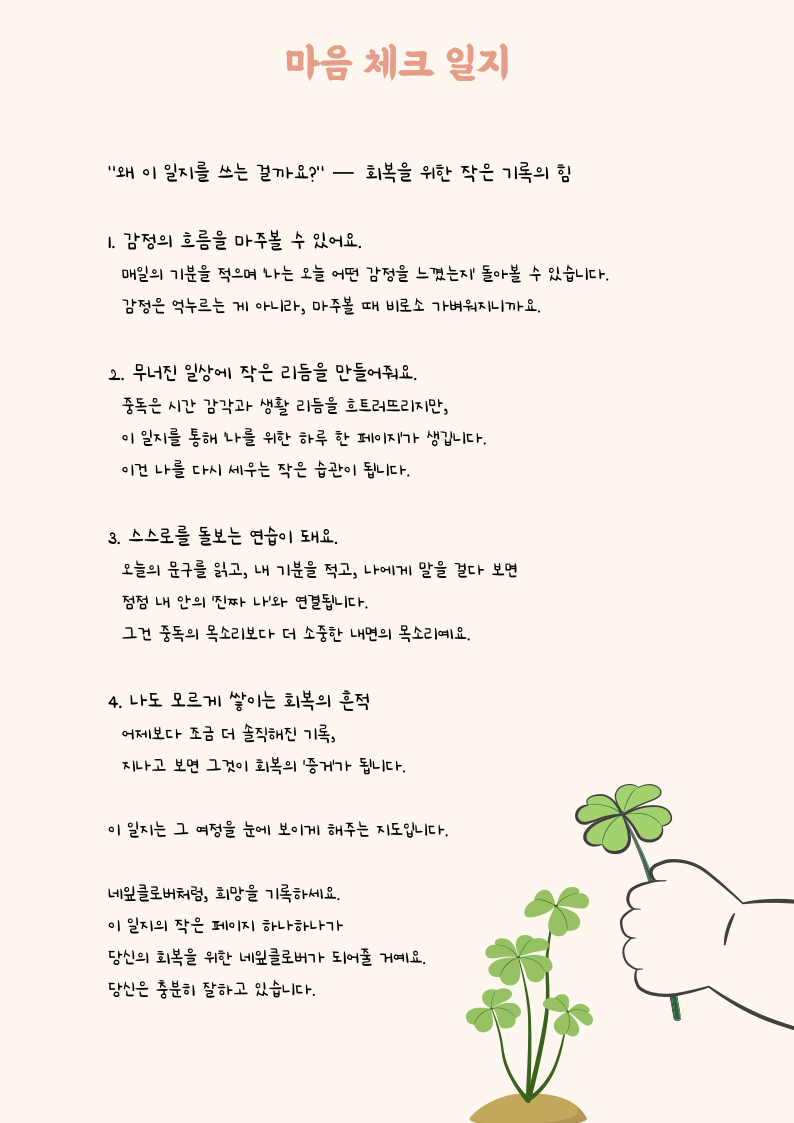
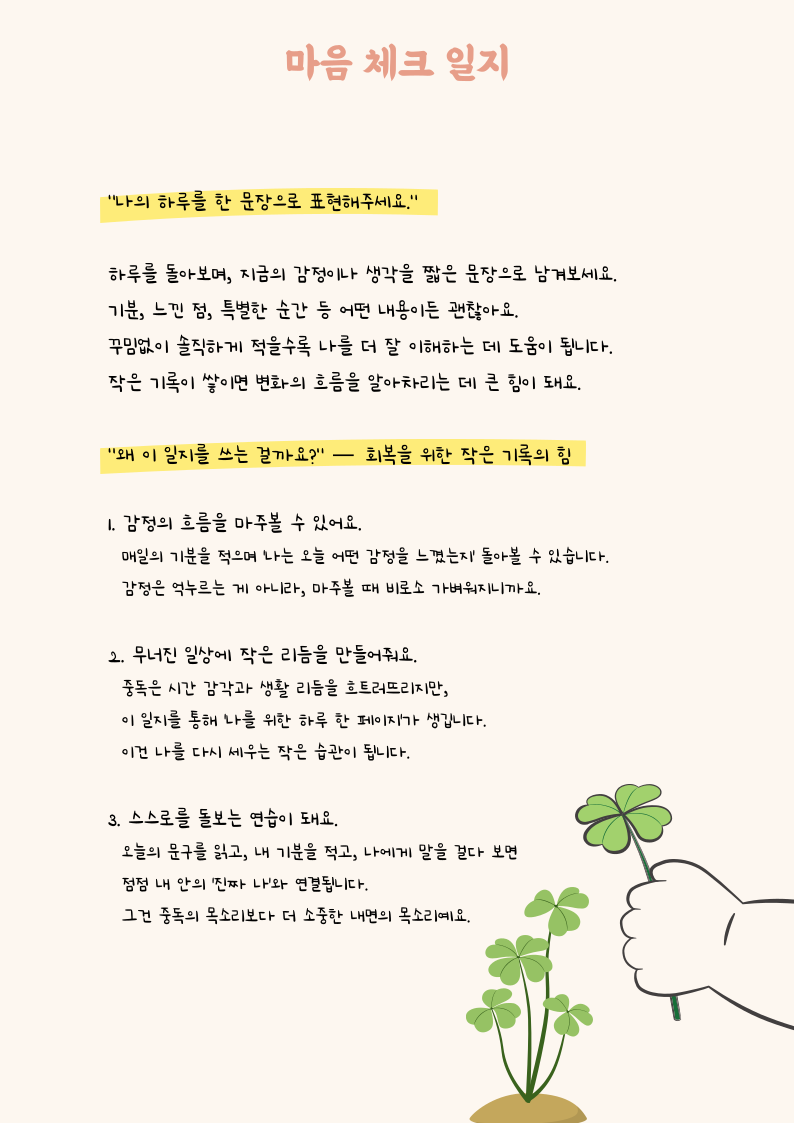
일기장 최신화 오류 수정

diff --git a/src/components/MindCheckJournal.vue b/src/components/MindCheckJournal.vue
@@ -25,7 +25,7 @@
         <h2 class="checklist-title">나의 라이프스타일 체크리스트</h2>
 
         <div class="checklist-item">
-          <strong>오늘 수분 섭취량</strong>
+          <strong>1. 오늘 수분 섭취량</strong>
           <div class="radio-group">
             <label><input type="radio" name="water" value="1cup" v-model="checklist.water" /> 1컵</label>
             <label><input type="radio" name="water" value="2_4cup" v-model="checklist.water" /> 2~4컵</label>
@@ -36,7 +36,7 @@
         </div>
 
         <div class="checklist-item">
-          <strong>오늘 수면시간</strong>
+          <strong>2. 오늘 수면시간</strong>
           <div class="radio-group">
             <label><input type="radio" name="hour" value="4hour" v-model="checklist.hour" /> 4시간 이하</label>
             <label><input type="radio" name="hour" value="5_6hour" v-model="checklist.hour" /> 5~6시간</label>
@@ -47,7 +47,7 @@
         </div>
 
         <div class="checklist-item">
-          <strong>규칙적인 식사 (중복 선택 가능)</strong>
+          <strong>3. 규칙적인 식사 (중복 선택 가능)</strong>
           <div class="checkbox-group">
             <label><input type="checkbox" value="morning" v-model="checklist.meals" /> 아침</label>
             <label><input type="checkbox" value="afternoon" v-model="checklist.meals" /> 점심</label>
@@ -57,7 +57,7 @@
         </div>
 
         <div class="checklist-item">
-          <strong>하루 중 취미 생활을 30분 이상 했는가?</strong>
+          <strong>4. 하루 중 취미 생활을 30분 이상 했는가?</strong>
           <div class="radio-group">
             <label><input type="radio" name="enjoyableActivity" value="yes" v-model="checklist.enjoyableActivity" /> 그렇다</label>
             <label><input type="radio" name="enjoyableActivity" value="no" v-model="checklist.enjoyableActivity" /> 아니다</label>
@@ -65,7 +65,7 @@
         </div>
 
         <div class="checklist-item">
-          <strong>하루 중 운동을 30분 이상 했나요?</strong>
+          <strong>5. 하루 중 운동을 30분 이상 했나요?</strong>
           <div class="radio-group">
             <label><input type="radio" name="exercise" value="yes" v-model="checklist.exercise" /> 그렇다</label>
             <label><input type="radio" name="exercise" value="no" v-model="checklist.exercise" /> 아니다</label>
@@ -73,7 +73,7 @@
         </div>
 
         <div class="checklist-item">
-          <strong>하루 중 누군가와 마음을 나눈 경험이 있나요?</strong>
+          <strong>6. 하루 중 누군가와 마음을 나눈 경험이 있나요?</strong>
           <div class="radio-group">
             <label><input type="radio" name="heartSharing" value="yes" v-model="checklist.heartSharing" /> 그렇다</label>
             <label><input type="radio" name="heartSharing" value="no" v-model="checklist.heartSharing" /> 아니다</label>
@@ -81,7 +81,7 @@
         </div>
 
         <div class="checklist-item">
-          <strong>하루 중 친절을 베푼 경험이 있나요?</strong>
+          <strong>7. 하루 중 친절을 베푼 경험이 있나요?</strong>
           <div class="radio-group">
             <label><input type="radio" name="kindness" value="yes" v-model="checklist.kindness" /> 그렇다</label>
             <label><input type="radio" name="kindness" value="no" v-model="checklist.kindness" /> 아니다</label>
@@ -148,11 +148,13 @@ export default {
       if (elementToCapture) {
         setTimeout(async () => {
           try {
+            const captureHeight = elementToCapture.scrollHeight + 50;
+
             const canvas = await html2canvas(elementToCapture, {
               useCORS: true,
               scrollY: -window.scrollY,
-              height: elementToCapture.scrollHeight,
-              windowHeight: elementToCapture.scrollHeight,
+              height: captureHeight,
+              windowHeight: captureHeight,
             });
 
             const imageDataURL = canvas.toDataURL("image/png");

diff --git a/src/components/DiaryDetail.vue b/src/components/DiaryDetail.vue
@@ -20,13 +20,21 @@ export default {
     };
   },
   mounted() {
-    // 예: 로컬스토리지에서 imageData 가져오기
+    const entryId = Number(this.$route.query.id);
+
     const diaryList = JSON.parse(localStorage.getItem('diaryList')) || [];
-    if(diaryList.length > 0){
-      // 맨 마지막 저장 이미지 예시
-      this.imageData = diaryList[diaryList.length - 1].image;
+
+    const foundEntry = diaryList.find(entry => entry.id === entryId);
+
+    if (foundEntry) {
+      this.imageData = foundEntry.image;
+    } else {
+      // 혹시 모를 오류에 대비 (예: 해당 id의 글이 없을 경우)
+      alert("일지를 찾을 수 없습니다.");
+      this.$router.push('/DiarList');
     }
   },
+
   methods: {
     goBack() {
       this.$router.push('/DiarList');
